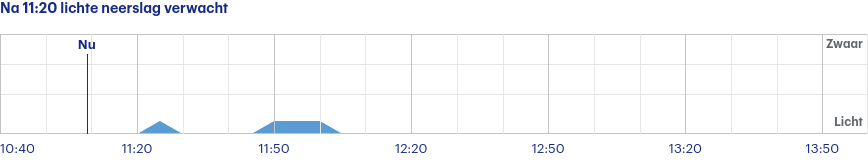
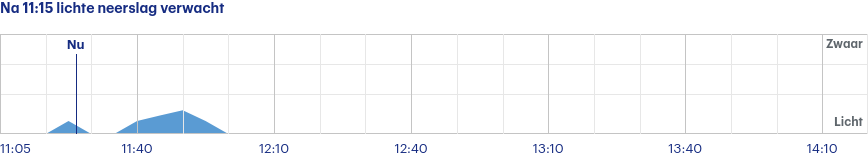
Latest scraping buienradar: Fri Aug 25 09:22:28 UTC 2023

diff --git a/scrapes/buienradar/buienradar-jette-3-uur.md b/scrapes/buienradar/buienradar-jette-3-uur.md
@@ -1,4 +1,4 @@
-Na 11:20 lichte neerslag verwacht
+Na 11:15 lichte neerslag verwacht
 
 ![](buienradar-jette-3-uur.png)
 
